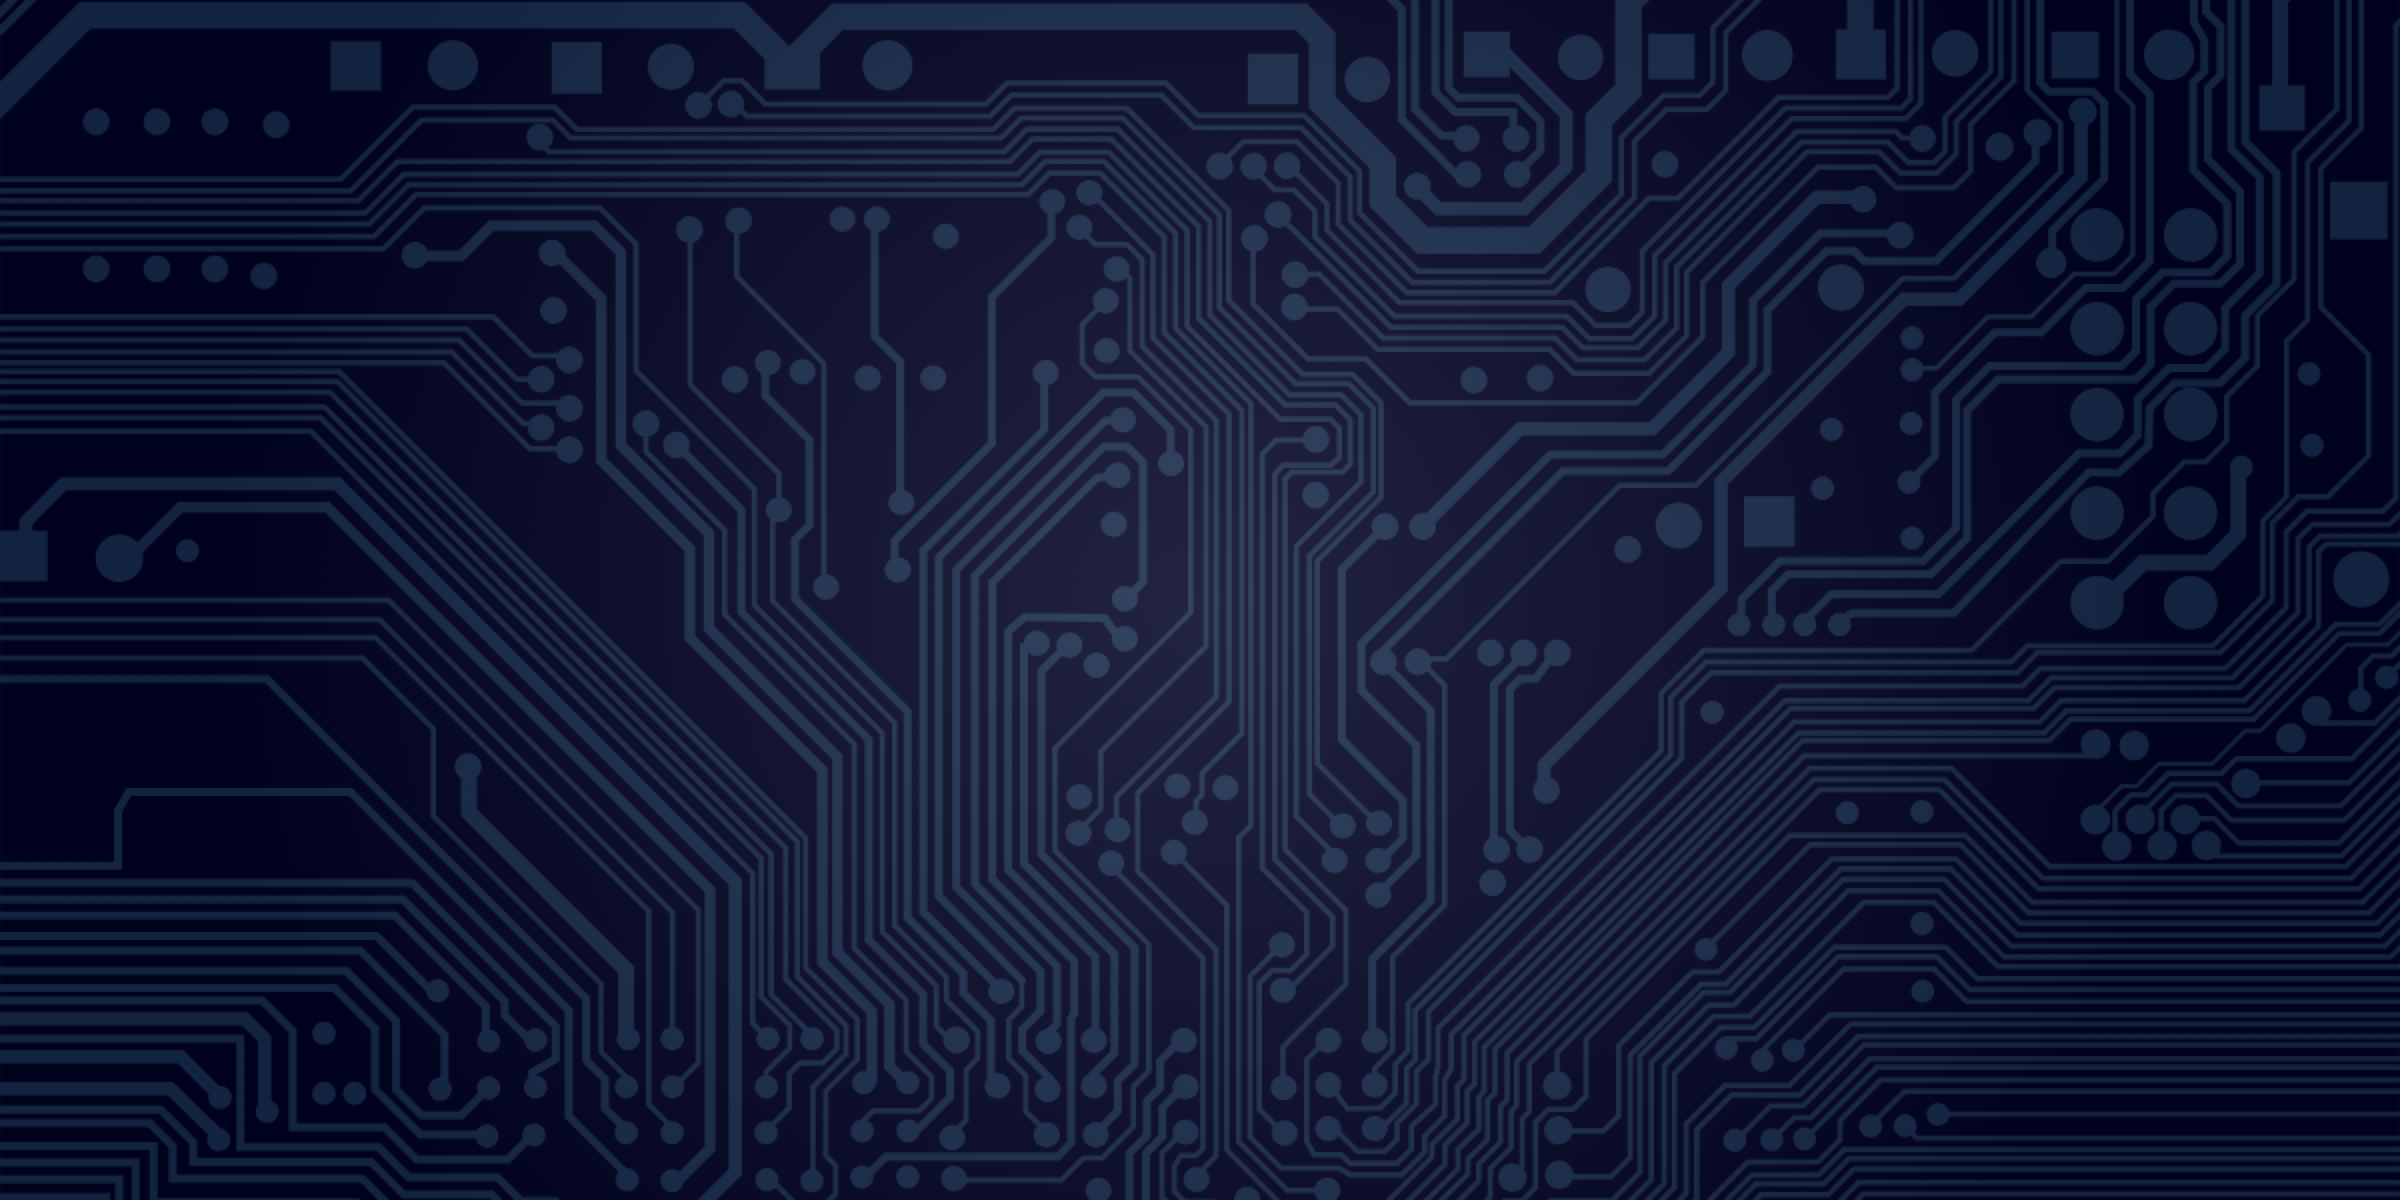
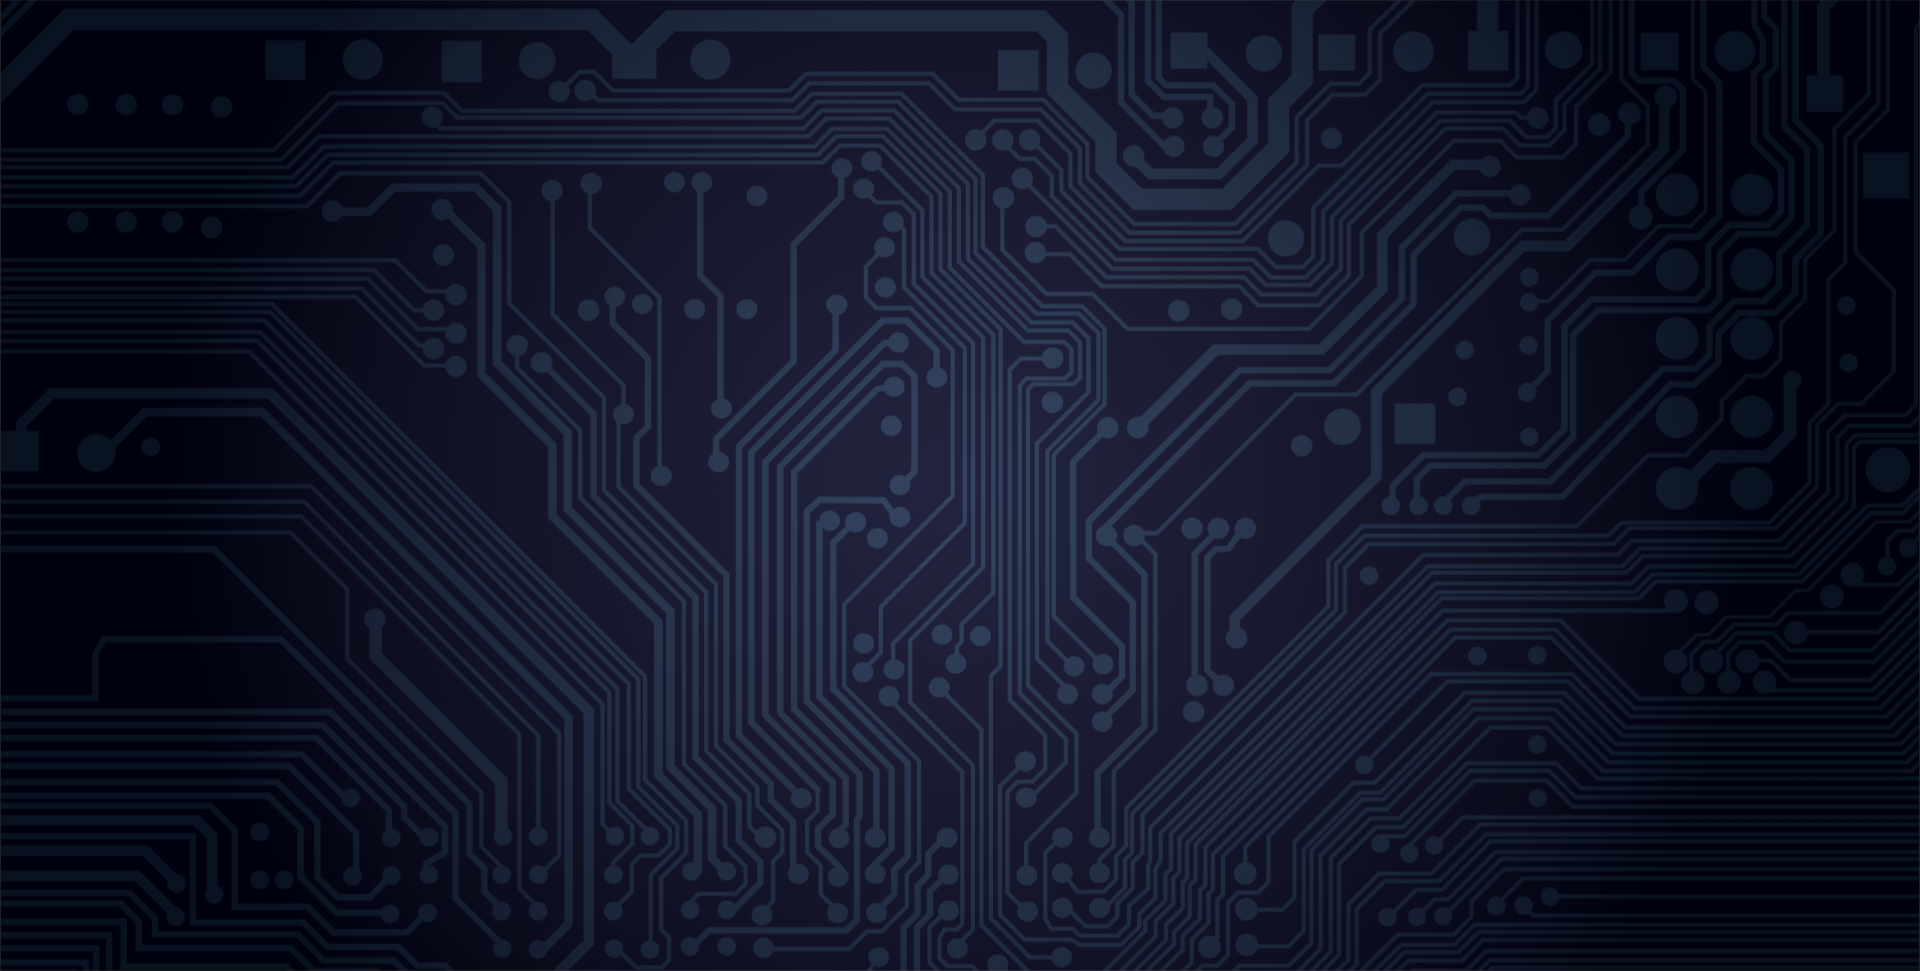
Added analytics

diff --git a/index.html b/index.html
@@ -37,14 +37,16 @@
   script(src='https://oss.maxcdn.com/libs/respond.js/1.4.2/respond.min.js')
   -->
 
-  <script type="text/javascript">
-    (function(i,s,o,g,r,a,m){i['GoogleAnalyticsObject']=r;i[r]=i[r]||function(){
-    (i[r].q=i[r].q||[]).push(arguments)},i[r].l=1*new Date();a=s.createElement(o),
-    m=s.getElementsByTagName(o)[0];a.async=1;a.src=g;m.parentNode.insertBefore(a,m)
-    })(window,document,'script','https://www.google-analytics.com/analytics.js','ga');
-    ga('create', 'UA-<<CODE>>', 'auto');
-    ga('send', 'pageview');
-  </script>
+  <script>
+  (function(i,s,o,g,r,a,m){i['GoogleAnalyticsObject']=r;i[r]=i[r]||function(){
+  (i[r].q=i[r].q||[]).push(arguments)},i[r].l=1*new Date();a=s.createElement(o),
+  m=s.getElementsByTagName(o)[0];a.async=1;a.src=g;m.parentNode.insertBefore(a,m)
+  })(window,document,'script','https://www.google-analytics.com/analytics.js','ga');
+
+  ga('create', 'UA-91617008-1', 'auto');
+  ga('send', 'pageview');
+
+</script>
 </head>
 <body>
   <div class="header">
@@ -71,7 +73,7 @@
         alpha Stage
       </h1>
       <h2 class="phrase">
-        <p>Build your community. Get feedback. Make better games.</p>
+        <p>Find players. Grow your community. Get feedback. Build better games.</p>
       </h2>
       <br>
       <span class="fill-out">
@@ -80,7 +82,7 @@
         <a href="#" class="player-select">Player</a>
       </span>
       <br>
-      <a href="#" class="btn btn-signup">Sing up to build awesome games</a>
+      <a href="#" class="btn btn-signup">Sign up to launch awesome games</a>
     </div>
   </div>
   <div style="background-color: white; height: 100vh">

diff --git a/app.css b/app.css
@@ -4,24 +4,15 @@ body {
 }
 
 .header {
-  background: #eee url('./public/images/circuitTopBG.png') center;
+  background: #eee url('./public/images/circuitTopBG.png') center no-repeat;
   background-attachment: fixed;
-  background-size: contain;;
+  background-size: cover;;
   overflow: hidden;
   height: 80vh;
   color: white;
 }
 
-.header:before {
-  content: '';
-  height: 80vh;
-  position: absolute;
-  top: 0;
-  right: 0;
-  bottom: 0;
-  left: 0;
-  background-image: linear-gradient(transparent, rgba(17, 17, 17, 0.6));
-}
+
 
 #title {
   position: absolute;

diff --git a/app.js b/app.js
@@ -4,7 +4,7 @@ $(function () {
 
     if ($btn.hasClass('green')) {
       $btn.removeClass('green');
-      $btn.text('Sign up to build awesome games')
+      $btn.text('Sign up to launch awesome games')
       return
     }
 
